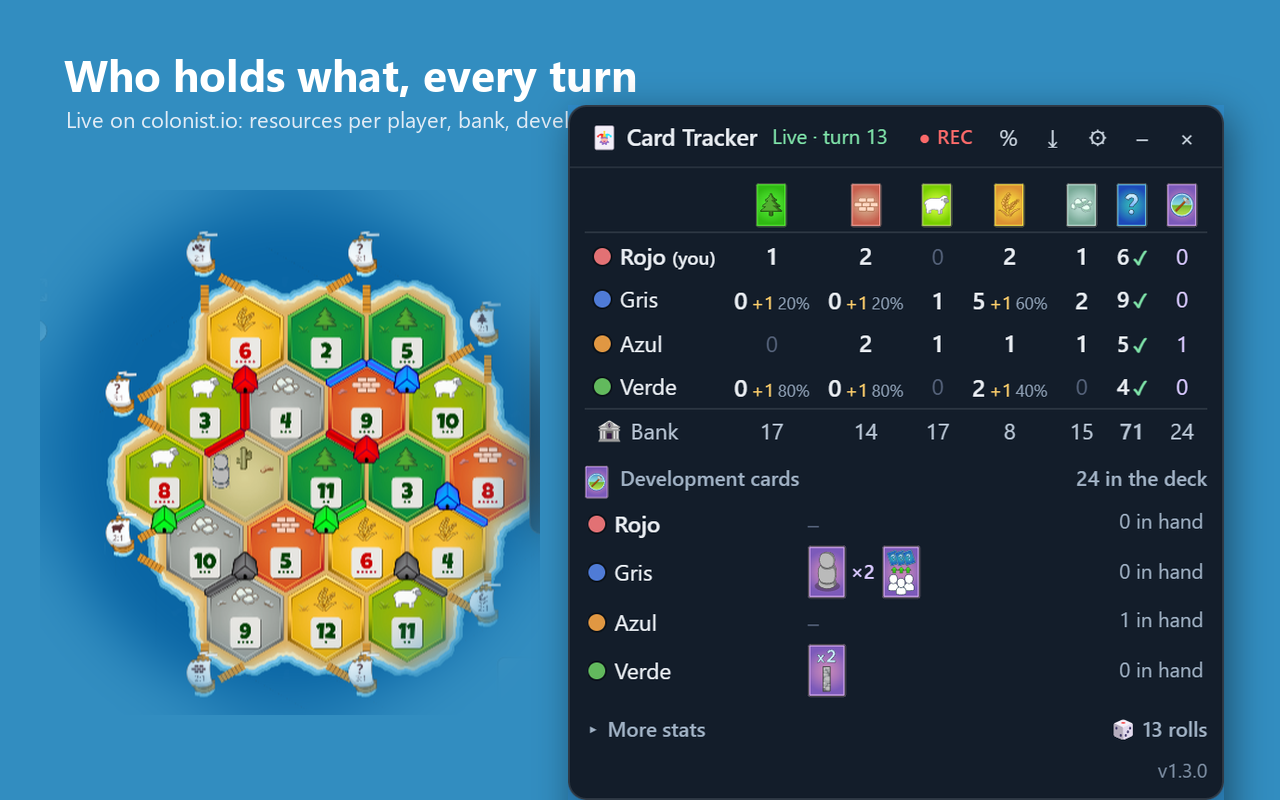
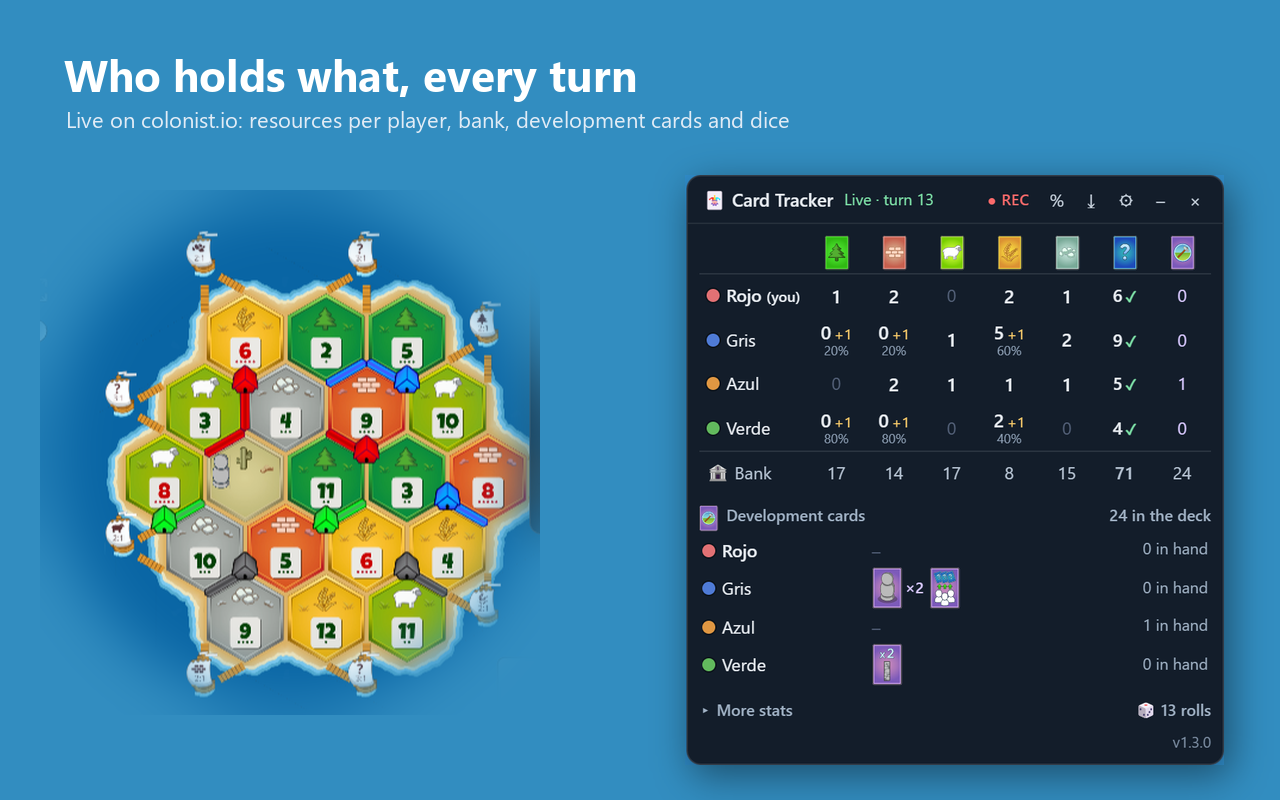
Stack probabilities under the number and fix value column widths
The +extra/probability of uncertain cells now sits on a second line and every value column has a fixed 40px width, so the table never reflows when probabilities appear. Store hero screenshot fitted to the taller panel.

Changed region(s): [[0.4375, 0.125, 0.9688, 1.0], [0.8438, 0.5938, 0.9375, 0.8438], [0.8438, 0.5312, 0.9375, 0.5625]]

diff --git a/src/overlay.css b/src/overlay.css
@@ -108,9 +108,13 @@
   box-shadow: 0 0 0 1px rgba(0, 0, 0, 0.4);
 }
 #cct-overlay table.cct-table td.z { color: #55627a; }
+/* fixed-width value columns so probabilities never change the layout */
+#cct-overlay table.cct-table th:not(.name),
+#cct-overlay table.cct-table td:not(.name) { min-width: 40px; width: 40px; }
+#cct-overlay table.cct-table td { height: 30px; vertical-align: middle; line-height: 1.1; }
 #cct-overlay table.cct-table td .v { font-size: 13px; font-weight: 600; }
 #cct-overlay table.cct-table td .x { font-size: 10px; color: #ffcf6b; margin-inline-start: 2px; }
-#cct-overlay table.cct-table td .p { font-size: 9px; color: #8fa0b5; margin-inline-start: 2px; }
+#cct-overlay table.cct-table td .p { display: block; font-size: 9px; color: #8fa0b5; margin-top: 1px; }
 #cct-overlay table.cct-table td .e { font-size: 13px; font-weight: 600; color: #ffd98a; }
 #cct-overlay table.cct-table td.total { font-weight: 600; }
 #cct-overlay table.cct-table td.total .ok { color: #7ee2a8; font-size: 10px; margin-inline-start: 2px; }

diff --git a/src/content.js b/src/content.js
@@ -736,7 +736,8 @@
     }
     var pExtra = 1 - (m.dist[m.min] || 0);
     var extra = m.max - m.min;
-    return '<td title="' + title + '"><span class="v">' + m.min + '</span><span class="x">+' + extra + '</span><span class="p">' + numFmt.pct(pExtra) + '</span></td>';
+    // Number and "+extra" on the first line, probability underneath: column widths stay put.
+    return '<td class="rng" title="' + title + '"><span class="v">' + m.min + '</span><span class="x">+' + extra + '</span><span class="p">' + numFmt.pct(pExtra) + '</span></td>';
   }
 
   function distTitle(m) {

diff --git a/tools/compose-store.py b/tools/compose-store.py
@@ -95,8 +95,9 @@ ImageDraw.Draw(mask).ellipse((10, 10, isl.width - 10, isl.height - 10), fill=255
 mask = mask.filter(ImageFilter.GaussianBlur(28))
 isl.putalpha(mask)
 s1.alpha_composite(isl, (40, 190))
-ph = panel.resize((int(panel.width * 0.93), int(panel.height * 0.93)), Image.LANCZOS)
-x, y = 1280 - ph.width - 56, 190 + (525 - ph.height) // 2
+hero_scale = min(0.93, 590 / panel.height)          # fit under the caption whatever the panel height
+ph = panel.resize((int(panel.width * hero_scale), int(panel.height * hero_scale)), Image.LANCZOS)
+x, y = 1280 - ph.width - 56, 175 + max(0, (590 - ph.height) // 2)
 shadow(s1, (x, y, x + ph.width, y + ph.height))
 s1.alpha_composite(ph, (x, y))
 s1.convert("RGB").save(os.path.join(SHOTS, "1-game.png"))
